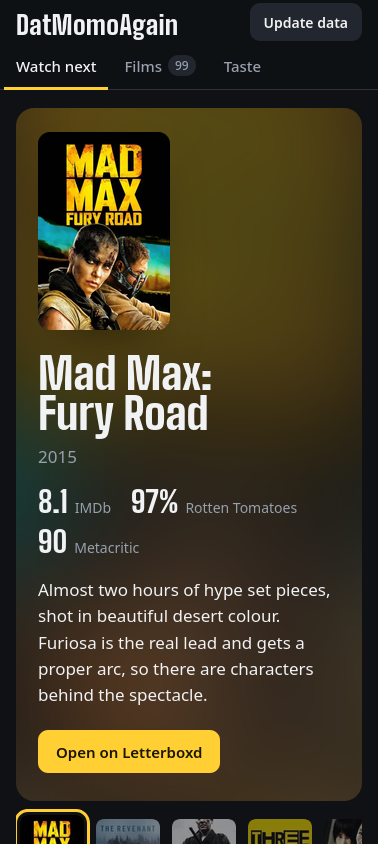
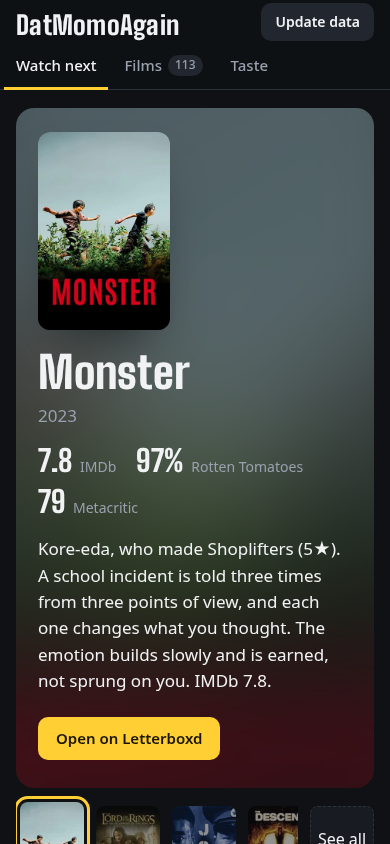
README: example prompts, current features, fresh dark-mode screenshots
Adds a 'Talking to it' section with first prompts for discussing a film,
getting recommendations and reviewing taste notes. Updates the feature list
(watch list, past picks and pickedBecause, liked hearts, Picks filter,
overcorrection guard) and retakes the screenshots, adding a film's
'Why Claude picked it' panel.

diff --git a/README.md b/README.md
@@ -10,9 +10,11 @@ It works from Letterboxd's official data export, not scraping and not your passw
 
 The private page, with my own data:
 
-![Watch next: Claude's picks on a poster stage with IMDb, Rotten Tomatoes and Metacritic scores](docs/screenshots/watch-next.png)
+![Watch next: your watch list on a poster stage with IMDb, Rotten Tomatoes and Metacritic scores](docs/screenshots/watch-next.png)
 
-![Films: a poster wall of everything watched, with search, filters and sorting](docs/screenshots/films.png)
+![Films: a poster wall of everything watched, with stars, a heart on liked films, search, filters and sorting](docs/screenshots/films.png)
+
+![A watched film: your rating and review, then why Claude picked it](docs/screenshots/film-detail.png)
 
 ![Taste: Claude's overview, then its notes grouped by topic with example films](docs/screenshots/taste.png)
 
@@ -21,25 +23,64 @@ The private page, with my own data:
 ## What it does
 
 **For Claude (MCP tools)**
-- Read: taste summary, ratings, diary, reviews, watchlist, and "have I seen this?", with your review
-  text attached wherever a film appears.
+- Read: taste summary, every watched film (`get_watched`), diary, reviews, watchlist, and "have I
+  seen these?" (`has_seen`, a whole list at once), with your review text attached wherever a film
+  appears. `find_film` looks up IMDb ids, ratings and vote counts, so recommendations quote real scores.
 - Taste memory: Claude saves what it learns about your taste (`remember`, `update_note`, `forget`)
-  in your own Cloudflare KV, not in Claude's memory, and reads it first in every chat.
-- Saves its recommendations and a written overview of your taste for the personal page. Each
-  saved pick carries an IMDb id, which Claude gets from `find_film` (a TMDB search) and the server
-  checks on save, so scores always belong to the right film.
+  in your own Cloudflare KV, not in Claude's memory, and reads it first in every chat. It asks before
+  every write, and its instructions guard against overcorrecting: one review isn't a general rule,
+  a proposed note gets checked against the rest of your ratings first, and one missed recommendation
+  is no reason to rewrite your taste.
+- Your watch list (`save_picks`, `update_pick`, `remove_picks`): films you decide to watch in a chat,
+  each with Claude's reason. Each carries an IMDb id the server checks on save, so scores always
+  belong to the right film. Once you've watched one, its reason is kept: Claude sees it as
+  `pickedBecause` whenever it looks that film up, next to your rating and review, so it can learn
+  what landed.
+- A written overview of your taste for the personal page (`save_overview`).
 
 **For you (a private web page)**
-- **Watch next:** Claude's picks one at a time on a poster stage (they disappear once you've watched
-  them), with IMDb, Rotten Tomatoes and Metacritic scores linking to each site.
-- **Films:** a poster wall of everything you've watched, with search, filters (liked, reviewed, rating,
-  decade) and sorting. Selecting a film shows your rating, watch dates and review.
+- **Watch next:** your watch list one film at a time on a poster stage (films leave it once you've
+  watched them), with Claude's reason and IMDb, Rotten Tomatoes and Metacritic scores linking to each site.
+- **Films:** a poster wall of everything you've watched, with stars, a heart on liked films, search,
+  filters (liked, reviewed, Claude's picks, rating, decade) and sorting. Selecting a film shows your
+  rating, watch dates and review, and for a past pick, why Claude picked it.
 - **Taste:** Claude's overview, then its notes about you grouped by topic. Each note is a theme with a
   headline, the detail, and example films showing your rating and how each landed. Rating and decade
   charts jump to the matching films.
 - An upload dialog for a new Letterboxd export ZIP, so it works from any device.
 - Server-rendered HTML with one small inline script (per-request CSP nonce, no network access, no
   third-party code), no-referrer, noindex. Without JavaScript it's one long readable page.
+
+## Talking to it
+
+It works best when you say which of three things you want: talk about a film, get recommendations,
+or review your taste notes. Asking "anything you want to revise?" invites Claude to find changes.
+
+**After watching something** (the best source of taste notes)
+> Just watched The Revenant, gave it 3.5. Let's talk about it.
+
+> Logged Moneyball. Ask me anything you're unsure about from my review.
+
+Claude asks questions, and notes come from what you say, not from reading too much into one review.
+
+**Recommendations**
+> Recommend 5 films for tonight. In the mood for something tense, under 2 hours.
+
+> Something like Spotlight: capable people solving a problem.
+
+> Pick one film from my watch next list for tonight.
+
+A mood only counts for that chat. A count and a running time keep the list focused.
+
+**Reviewing your taste notes** (now and then, not after every film)
+> Review my taste notes against my whole history. Flag anything contradicted or out of date, but
+> don't propose new notes.
+
+> Is there a pattern in my last 10 ratings that shows up across several films? Only flag it if it's in more than one.
+
+> How did your recent picks land?
+
+If Claude reads too much into something, "that was just about that film" is enough to correct it.
 
 ## How access works
 
